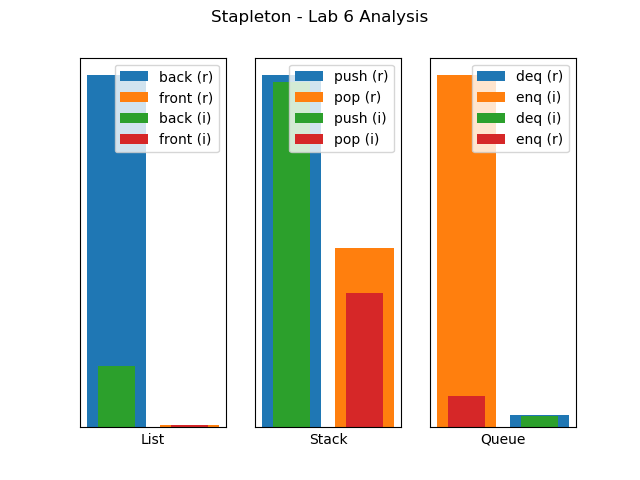
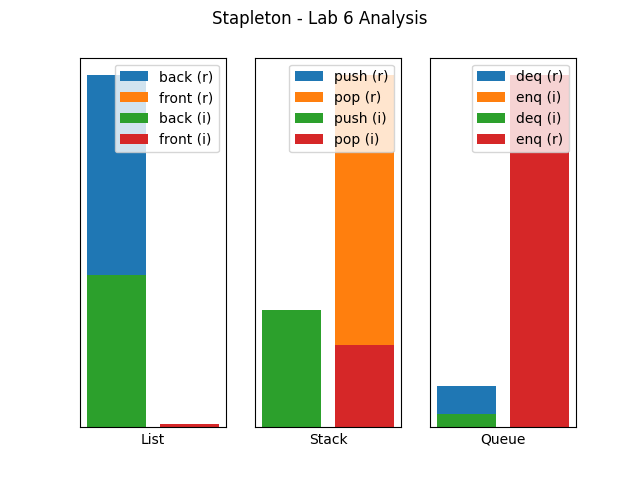
final
fixed

diff --git a/c_recursive_queue.py b/c_recursive_queue.py
@@ -33,24 +33,41 @@ class Queue:
 
 
 def initialize() -> Queue:
-    raise NotImplementedError("Queue.initialize() not defined")
+    return Queue()
 
 
 def isEmpty(data: Queue) -> bool:
-    raise NotImplementedError("Queue.isEmpty() not defined")
-
+    return data.first == None
 
 def enqueue(data: Queue, value: int) -> Queue:
-    raise NotImplementedError("Queue.enqueue() not defined")
+    if data.first is None:
+        data.first = Node(value, None)
+        return data
+    else:
+        new_node = Node(value, data.first)
+        data.first = new_node
+        return data
 
 
 def dequeue(data: Queue) -> tuple[Node, Queue]:
-    raise NotImplementedError("Queue.dequeue() not defined")
-
+    def helper(v:Node, i:int):
+        if i == 0:
+            node = v.next
+            data.first = node
+        elif v is None:
+            raise IndexError ("Oops")
+        else:
+            helper(v.next, i)
+    if isEmpty(data):
+        raise IndexError ("Cannot Remove")
+    else:
+        helper(data.first, i=0)
+        return data.first, data
 
 def peek(data: Queue) -> Node:
-    raise NotImplementedError("Queue.peek() not defined")
+    return data.first.value
 
 
 def clear(data: Queue) -> Queue:
-    raise NotImplementedError("Queue.clear() not defined")
+    data.first = None
+    return data

diff --git a/b_recursive_stack.py b/b_recursive_stack.py
@@ -33,24 +33,40 @@ class Stack:
 
 
 def initialize() -> Stack:
-    raise NotImplementedError("Stack.initialize() not defined")
-
+    return Stack()
 
 def isEmpty(data: Stack) -> bool:
-    raise NotImplementedError("Stack.isEmpty() not defined")
-
+    return data.first == None
 
 def push(data: Stack, value: int) -> Stack:
-    raise NotImplementedError("Stack.push() not defined")
+    if data.first is None:
+        data.first = Node(value, None)
+        return data
+    else:
+        new_node = Node(value, data.first)
+        data.first = new_node
+        return data
 
 
 def pop(data: Stack) -> tuple[Node, Stack]:
-    raise NotImplementedError("Stack.pop() not defined")
-
+    def helper(v:Node, i:int):
+        if i == 0:
+            node = v.next
+            data.first = node
+        elif v is None:
+            raise IndexError ("Oops")
+        else:
+            helper(v.next, i)
+    if isEmpty(data):
+        raise IndexError ("Cannot Remove")
+    else:
+        helper(data.first, i=0)
+        return data.first, data
 
 def peek(data: Stack) -> Node:
-    raise NotImplementedError("Stack.peek() not defined")
+    return data.first.value
 
 
 def clear(data: Stack) -> Stack:
-    raise NotImplementedError("Stack.clear() not defined")
+    data.first = None
+    return data

diff --git a/d_analysis.py b/d_analysis.py
@@ -315,12 +315,40 @@ for experiment in RESULTS:
 # YOUR CODE GOES BELOW
 ## LIST
 
+plt.subplot(1,3,1)
+plt.bar('i', RESULTS['back  (r)'])
+plt.bar('t', RESULTS['front (r)'])
+plt.bar('i', RESULTS['back  (i)'])
+plt.bar('t', RESULTS['front (i)'])
+plt.legend(['back (r)', 'front (r)', 'back (i)', 'front (i)'])
+plt.xticks([])
+plt.yticks([])
+plt.xlabel('List')
+
 
 ## STACK
 
+plt.subplot(1,3,2)
+plt.bar('i', RESULTS['push  (r)'])
+plt.bar('u', RESULTS['pop   (r)'])
+plt.bar('i', RESULTS['push  (i)'])
+plt.bar('u', RESULTS['pop   (i)'])
+plt.legend(['push (r)', 'pop (r)', 'push (i)', 'pop (i)'])
+plt.xticks([])
+plt.yticks([])
+plt.xlabel('Stack')
 
 ## QUEUE
 
+plt.subplot(1,3,3)
+plt.bar('i', RESULTS['deq   (r)'])
+plt.bar('u', RESULTS['enq   (r)'])
+plt.bar('i', RESULTS['deq   (i)'])
+plt.bar('u', RESULTS['enq   (i)'])
+plt.legend(['deq (r)', 'enq (i)', 'deq (i)', 'enq (r)'])
+plt.xticks([])
+plt.yticks([])
+plt.xlabel('Queue')
 
 ## SAVE FIGURE
 plt.savefig('./figs/stapleton_lab6_analysis.png')

diff --git a/a_recursive_list.py b/a_recursive_list.py
@@ -112,9 +112,9 @@ def addToBack(data: List, value: int) -> List:
     def helper(v:Node):
         if v.next == None:
             last_node = Node(value, None)
-            node = v.next
-            node.next = last_node
+            v.next = last_node
         else:
+            v = v.next
             helper(v)
     if data.first is None:
         data.first = Node(value,None)
@@ -139,18 +139,6 @@ def getElementAtIndex(data: List, index: int) -> Node:
     else:
         return helper(data.first,index,i =0)
 
-
-l = initialize()
-addToFront(l, 2)
-addToFront(l, 5)
-addToBack(l, 5)
-
-
-print(l.last.value)
-
-l = l.toPythonList()
-print(l)
-
-
 def clear(data: List) -> List:
-    raise NotImplementedError("List.clear() not defined")
+    data.first = None
+    return list
